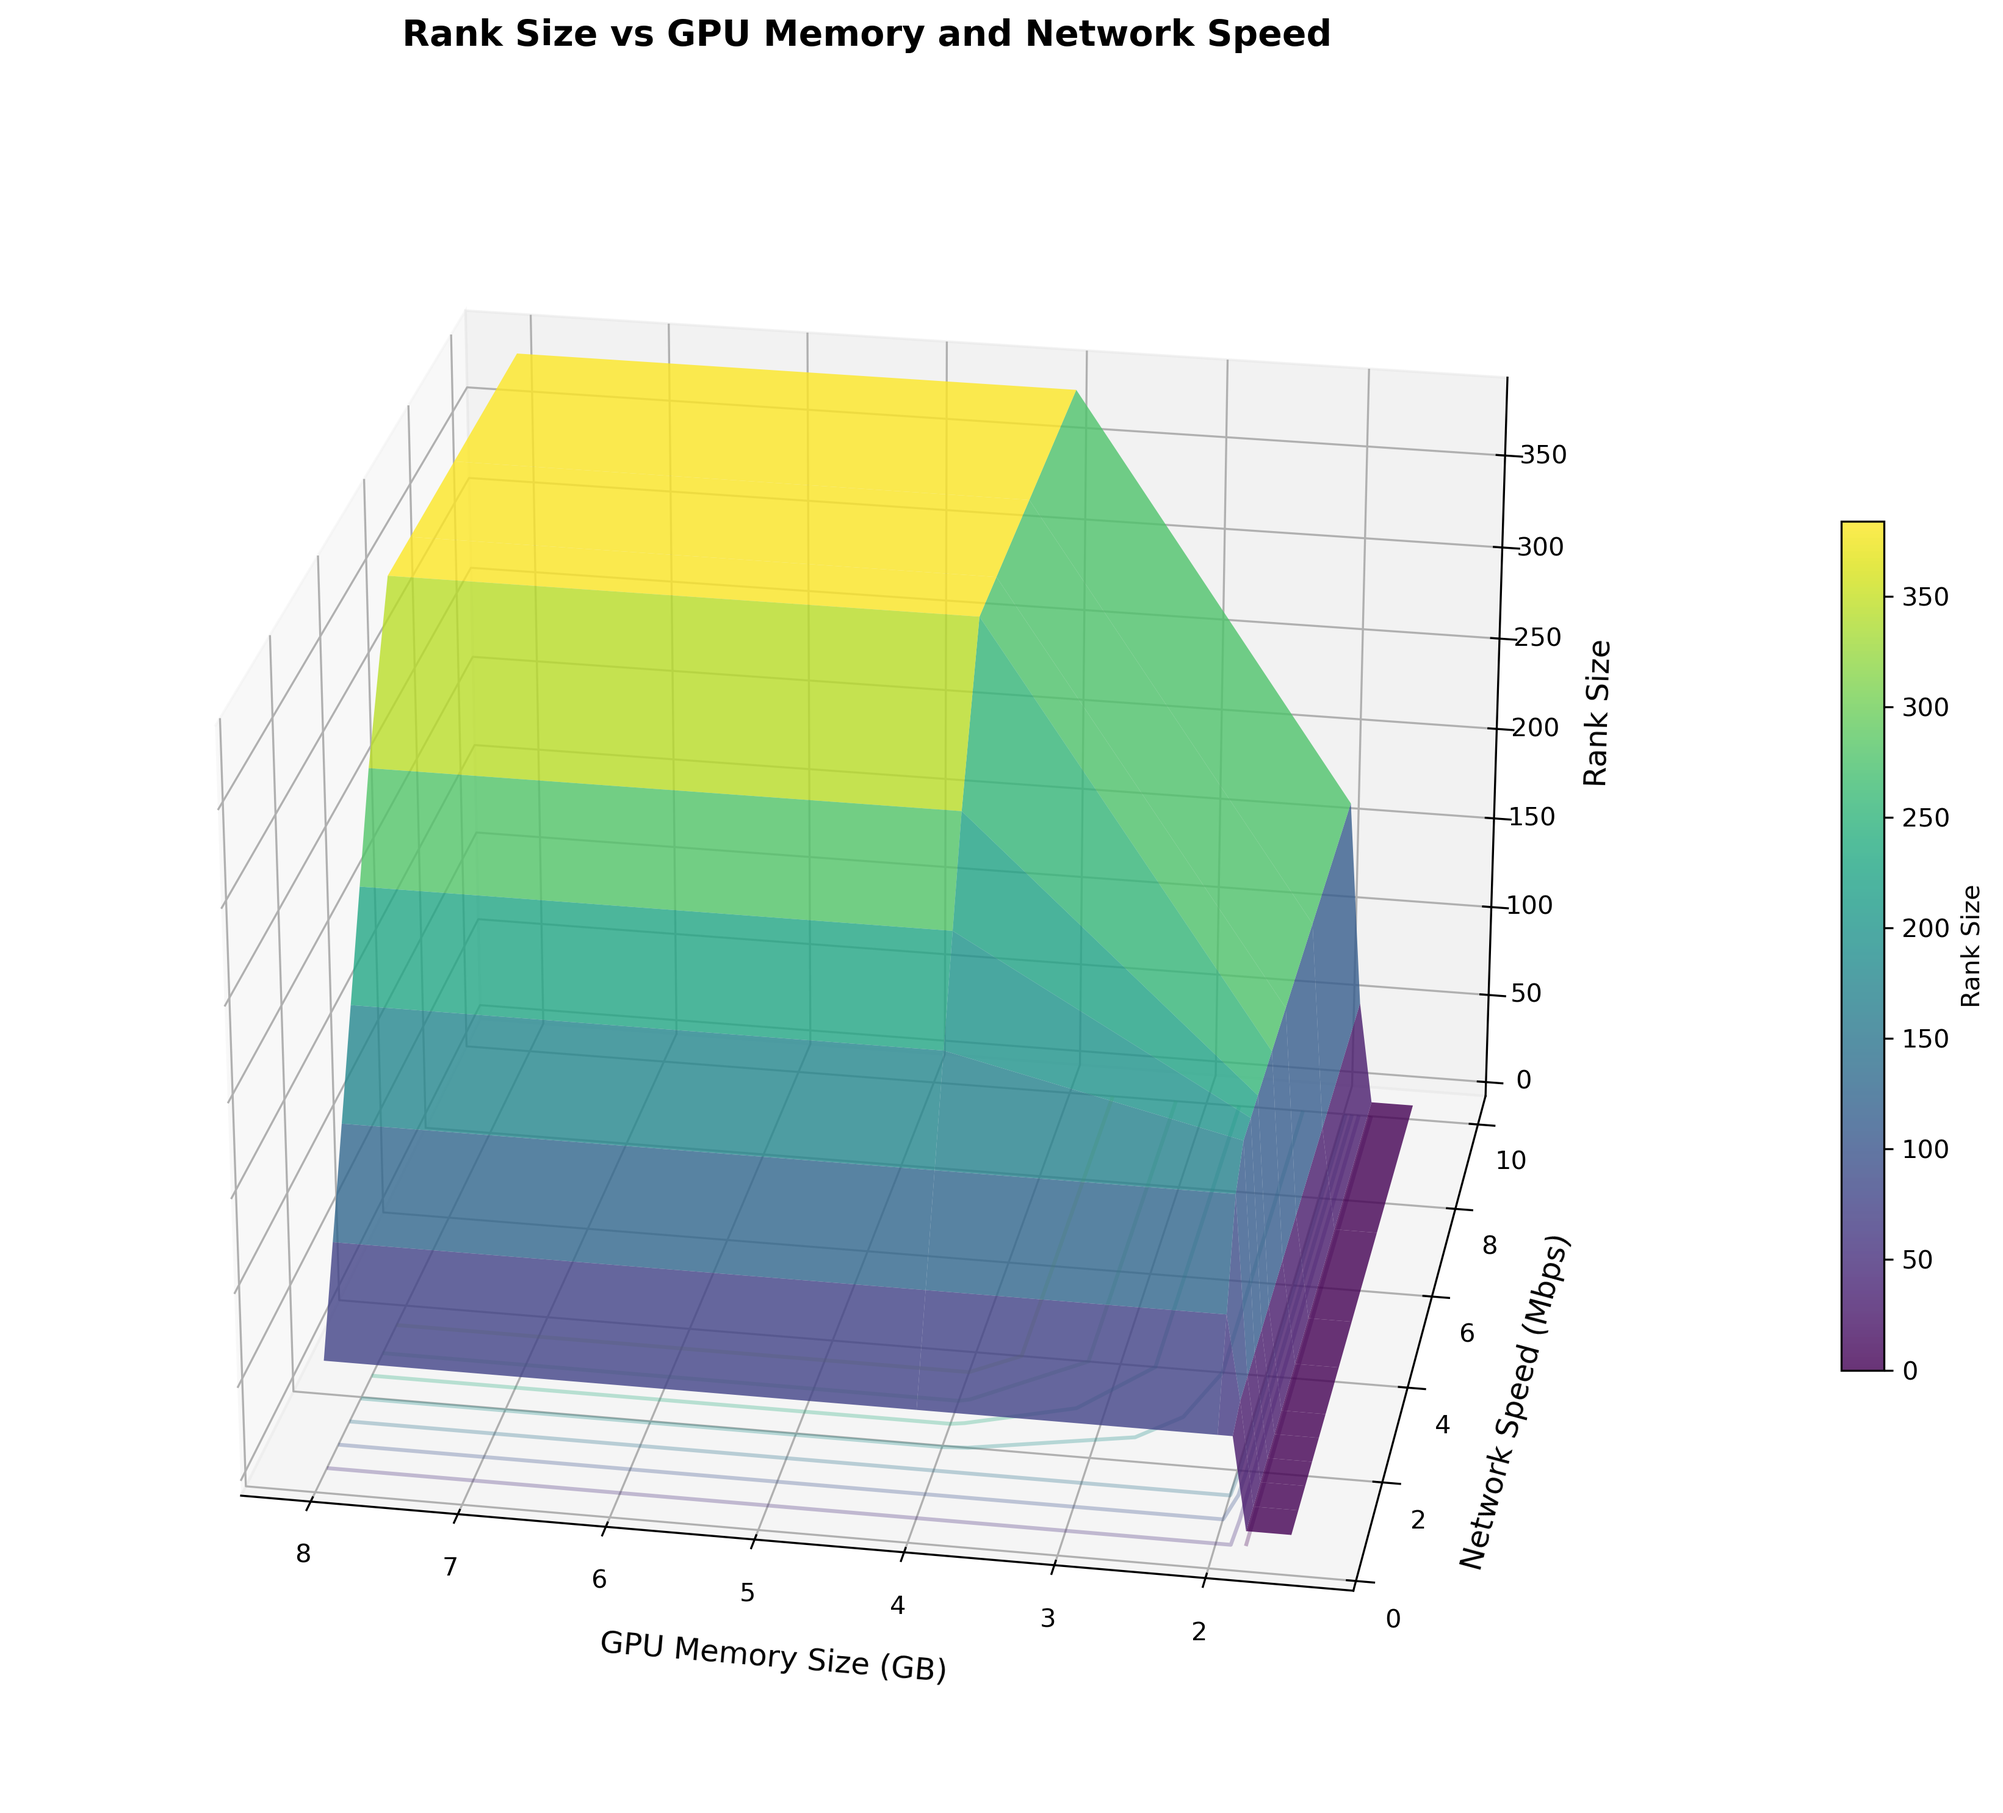
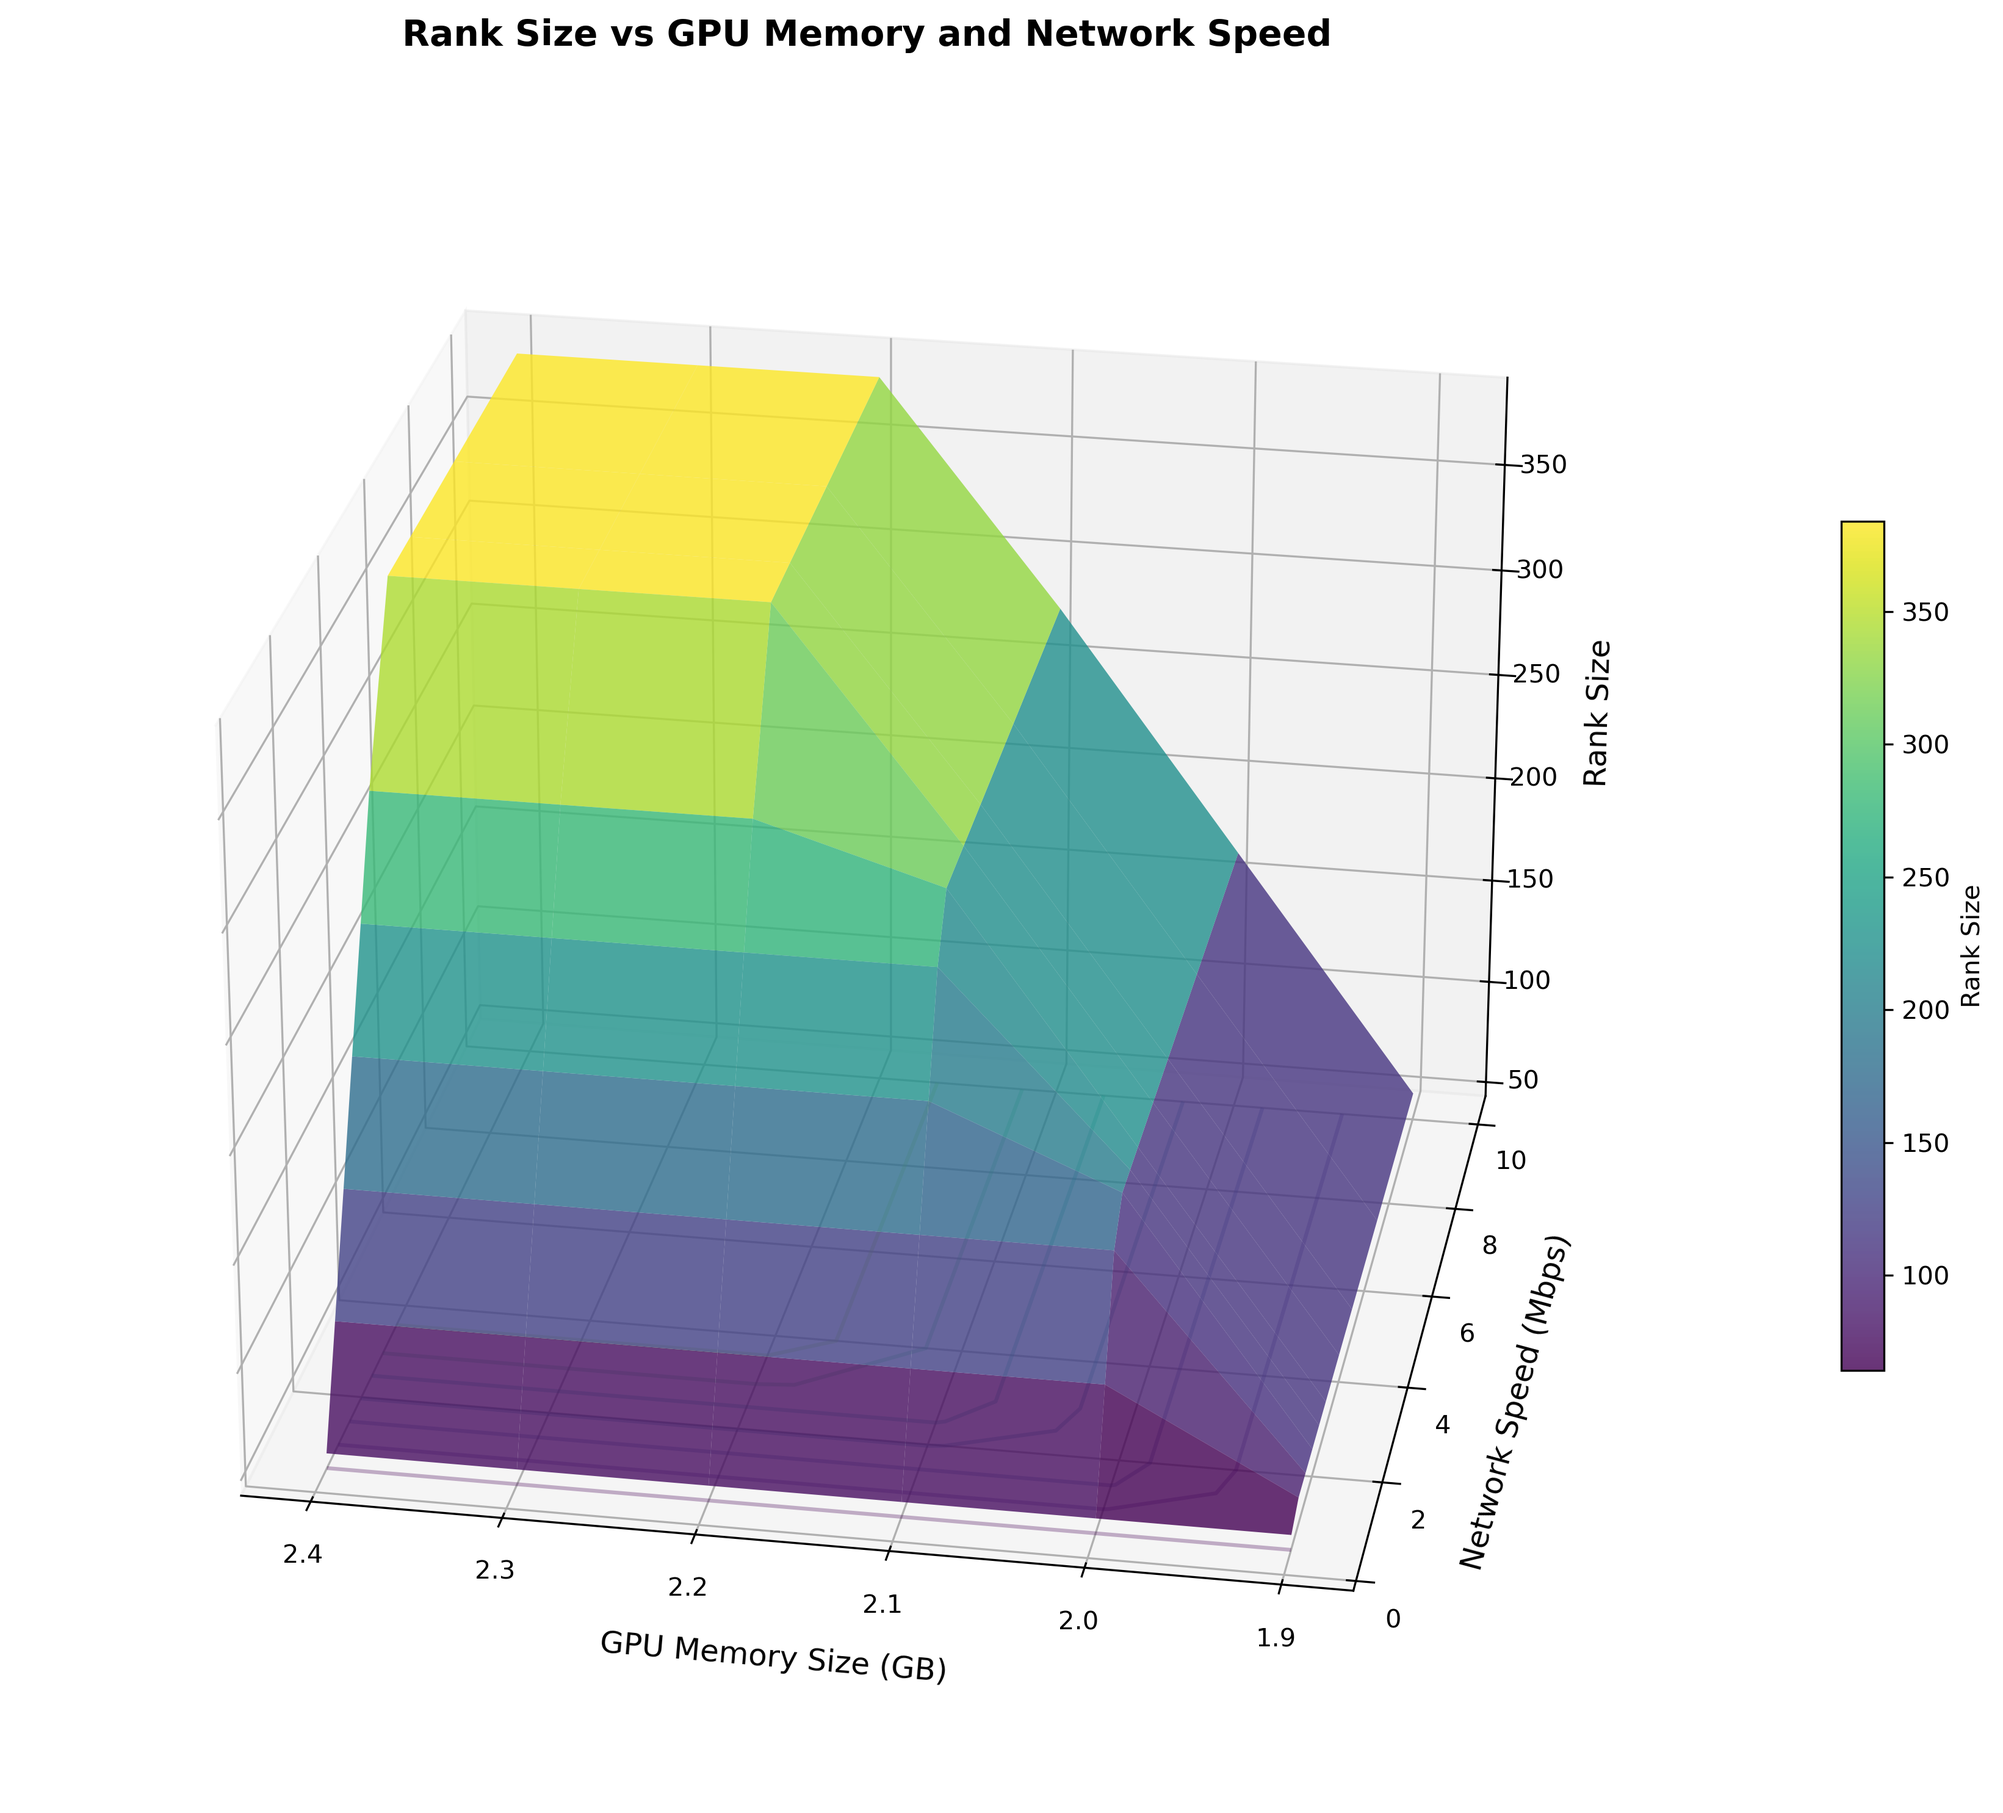
adjust plots

diff --git a/tests/test_estimator.py b/tests/test_estimator.py
@@ -8,6 +8,7 @@ import os
 import matplotlib.pyplot as plt
 from mpl_toolkits.mplot3d import Axes3D
 import numpy as np
+from scipy.interpolate import griddata
 from transformers import AutoModelForImageClassification
 import torch
 from torch.profiler import profile, ProfilerActivity
@@ -830,7 +831,7 @@ class TestRankEstimatorVisualization(unittest.TestCase):
     def test_rank_3d_diagram(self):
         """Generate a 3D diagram showing rank size vs memory and network speed"""
         # Define ranges for memory and network speeds
-        memory_sizes_GB = [1.5, 1.8, 1.9, 2, 4, 8]
+        memory_sizes_GB = [1.9, 2, 2.1, 2.2, 2.3, 2.4]
         network_speeds_Mbps = [0.5, 1.0, 1.5, 2.0, 2.5, 3.0, 4.0, 5.0, 7.0, 10.0]
         
         # Model and training configuration
